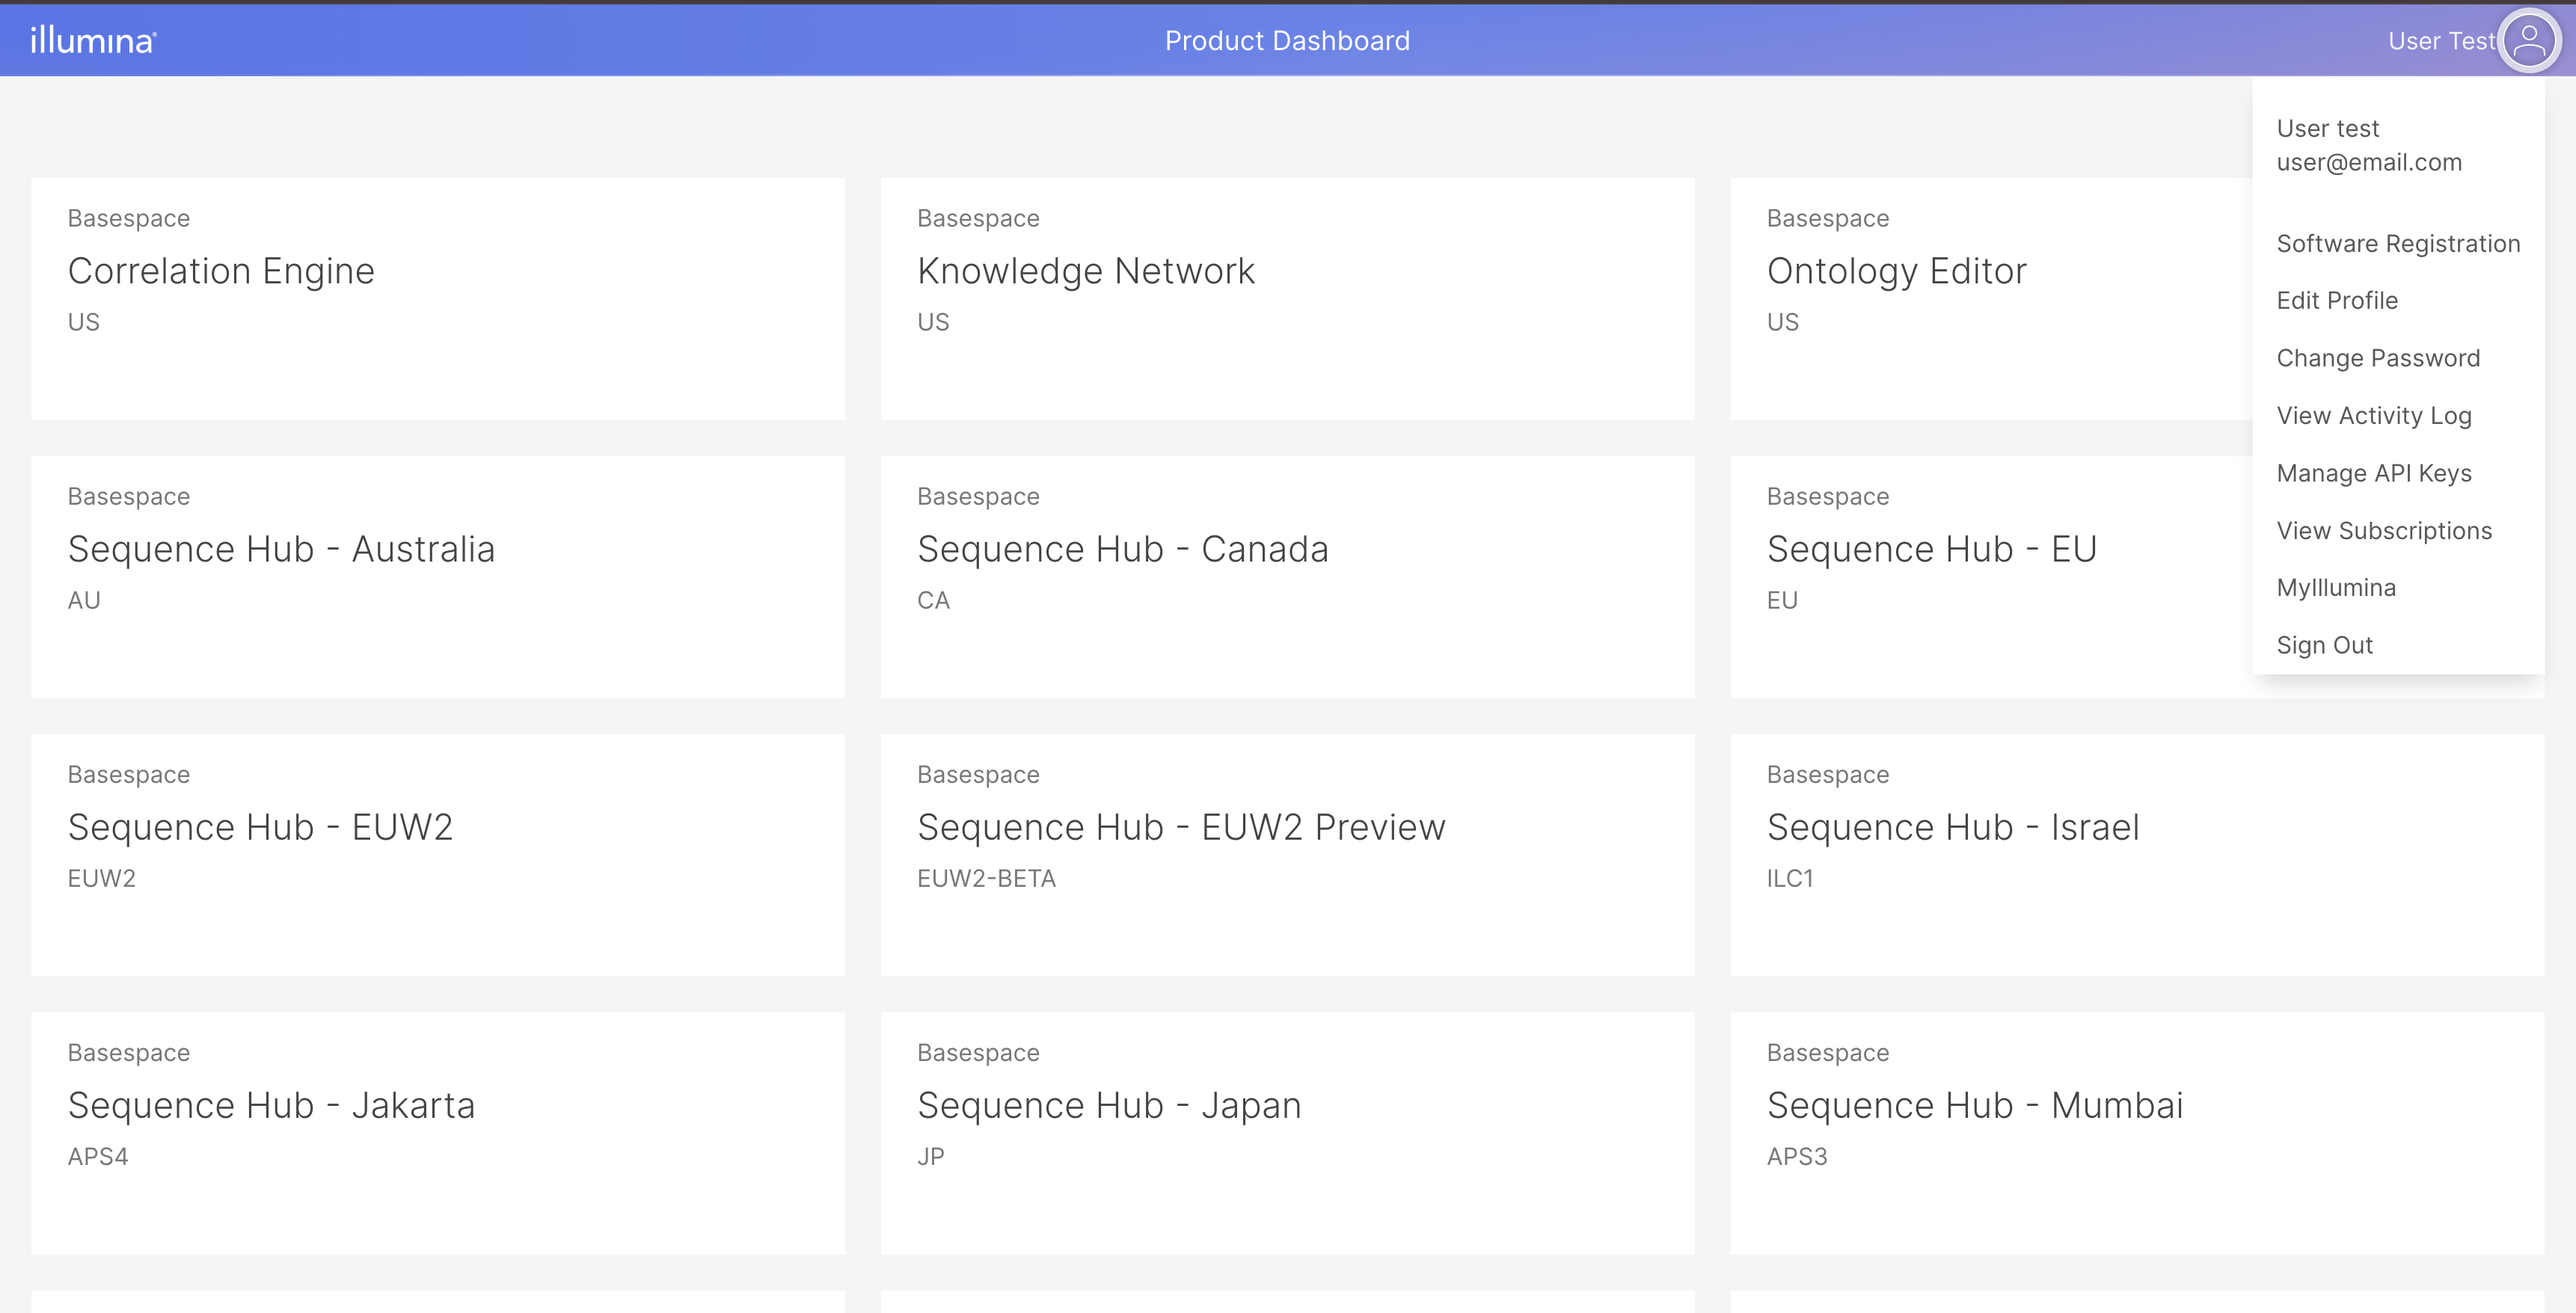
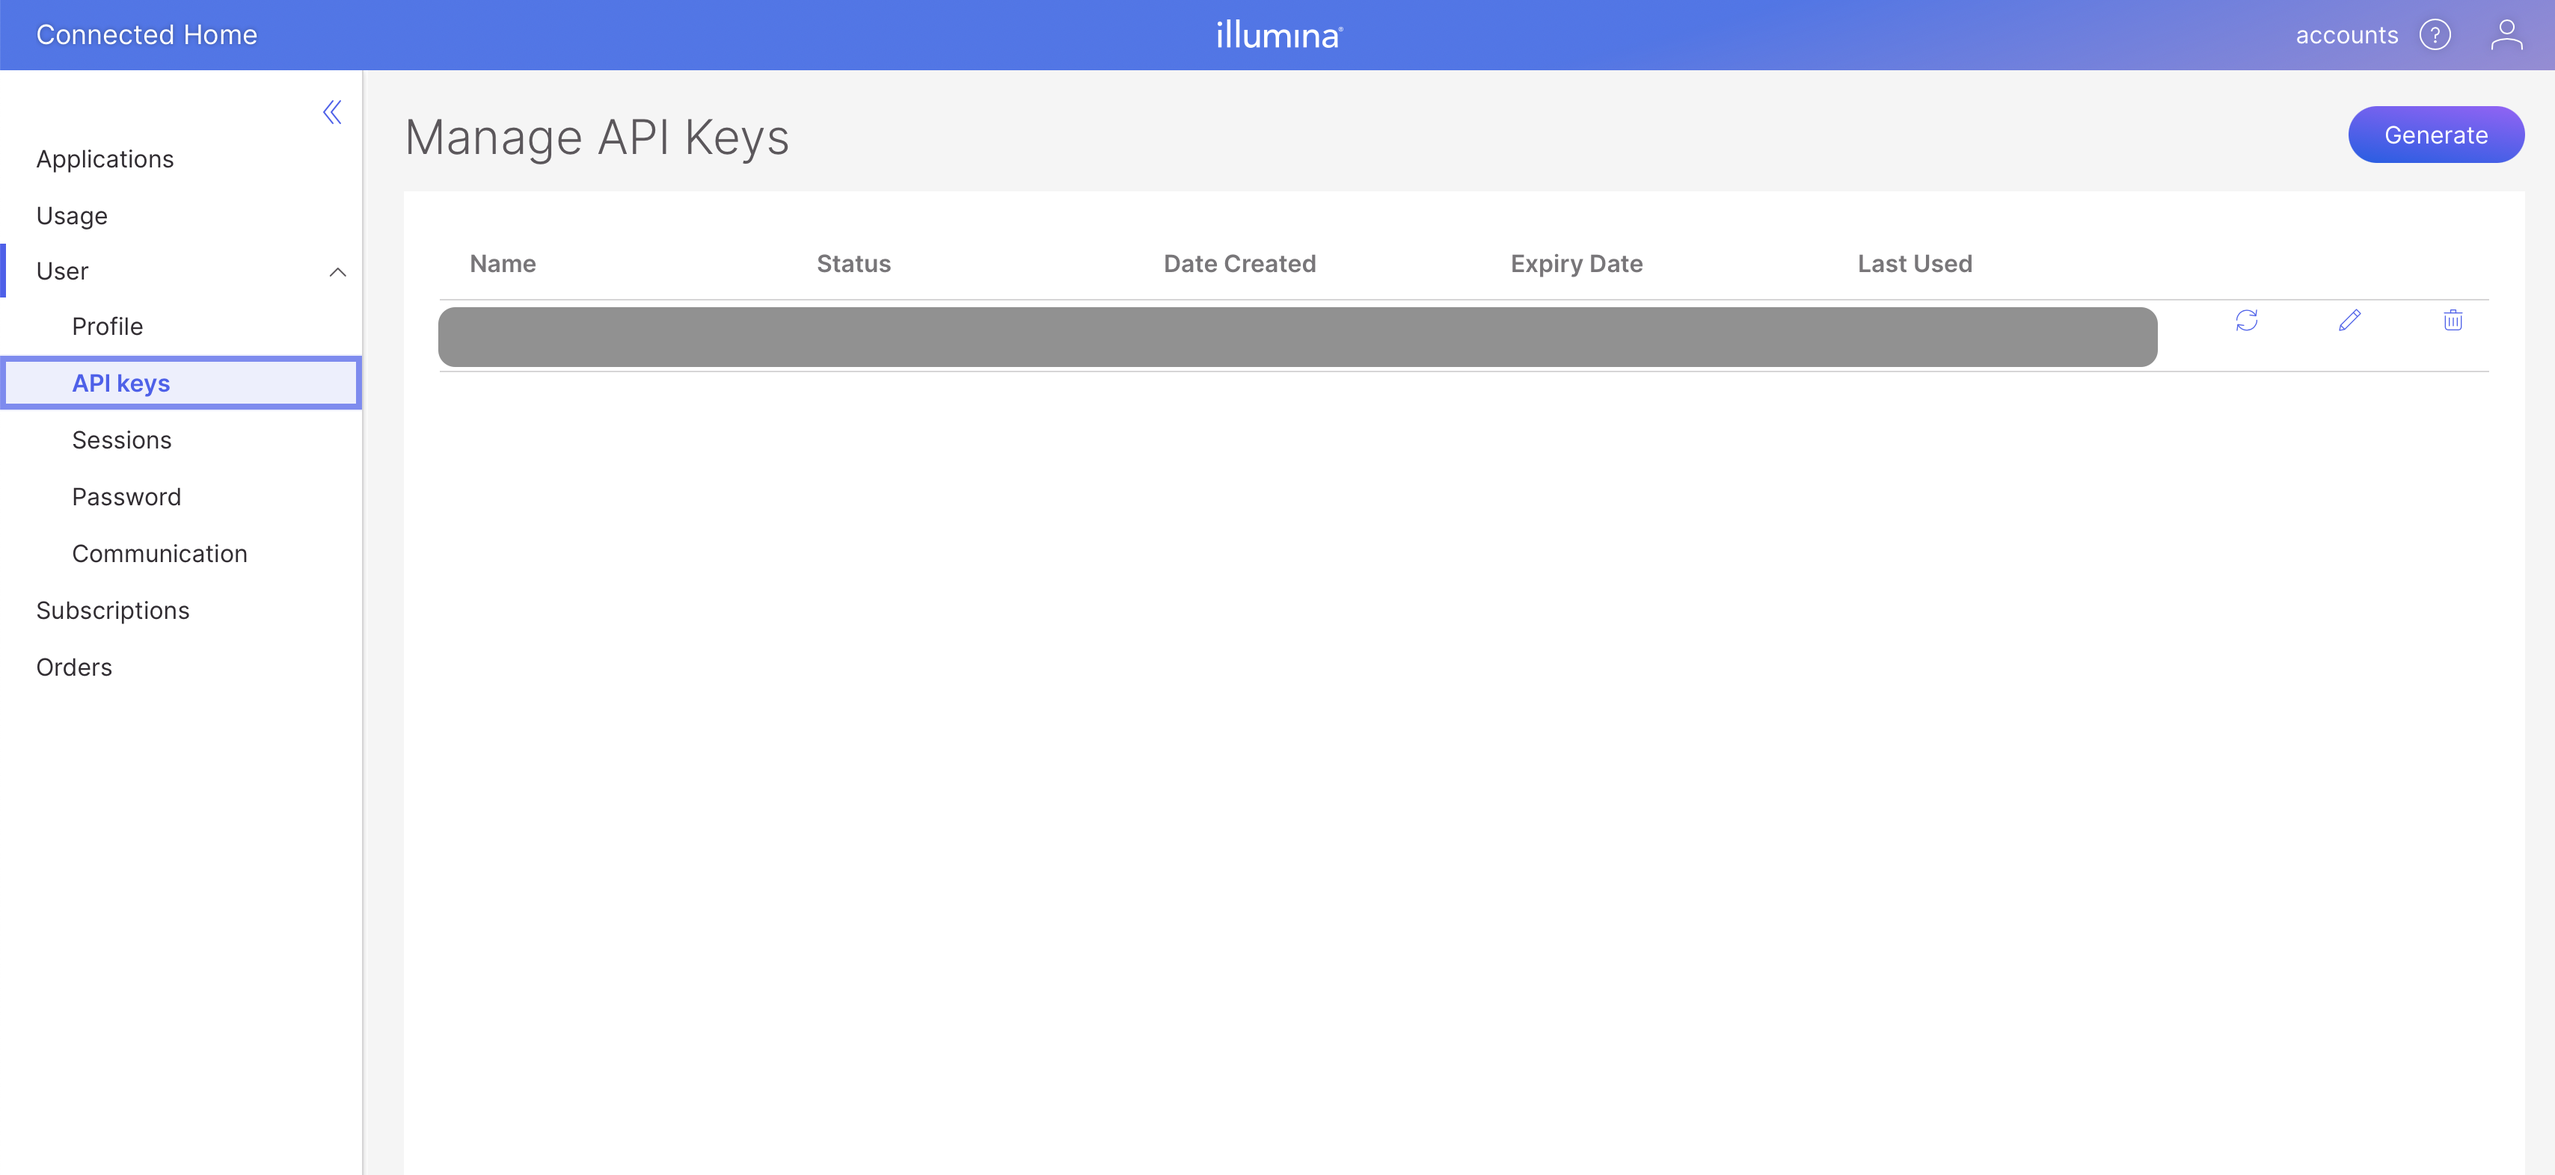
more details for cloud users

diff --git a/docs/introduction/getting-started-dragen.md b/docs/introduction/getting-started-dragen.md
@@ -71,7 +71,12 @@ Following template can be used to create the `credentials.json`.
   "ApiSecret": "<BYOL password>"
 }
 ```
+The `username` and `password` can be found in a file called `credentials.txt`. 
+This is the file used with `--lic-credentials <path to file>` for DRAGEN.
+Alternatively, if you are using `--lic-server <license server URL with credentials>`, they can be found in the  license server URL which should be formatted as follows:
 
+`https://<username>:<password>@license.dragen.illumina.com
+`.
 ### Download Sources
 
 :::tip
